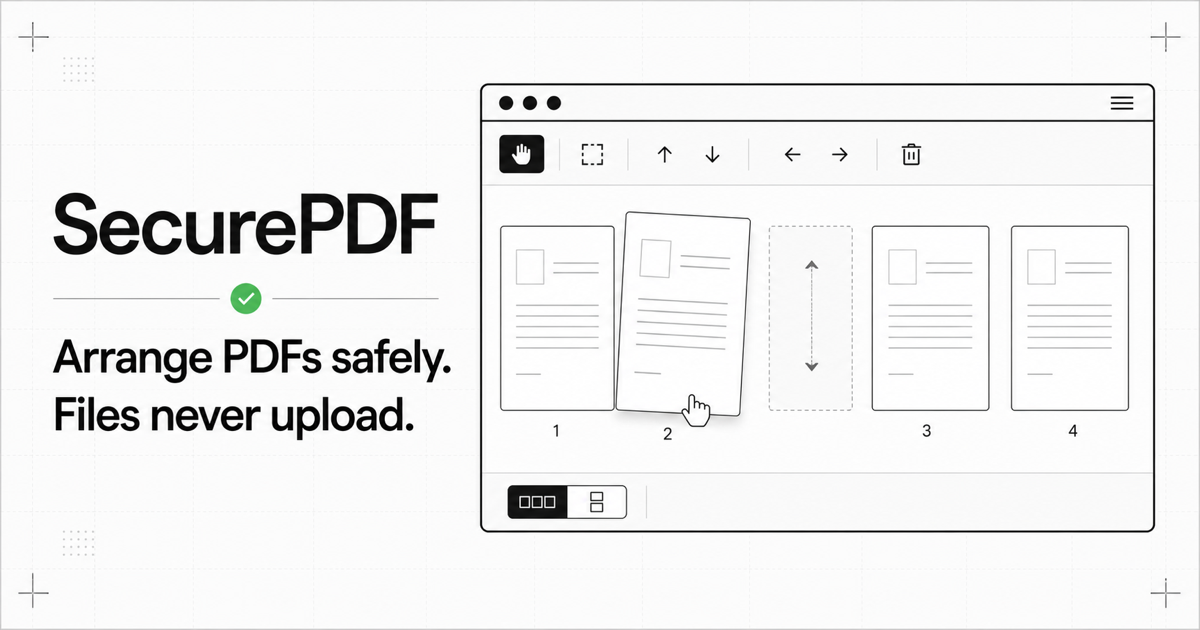
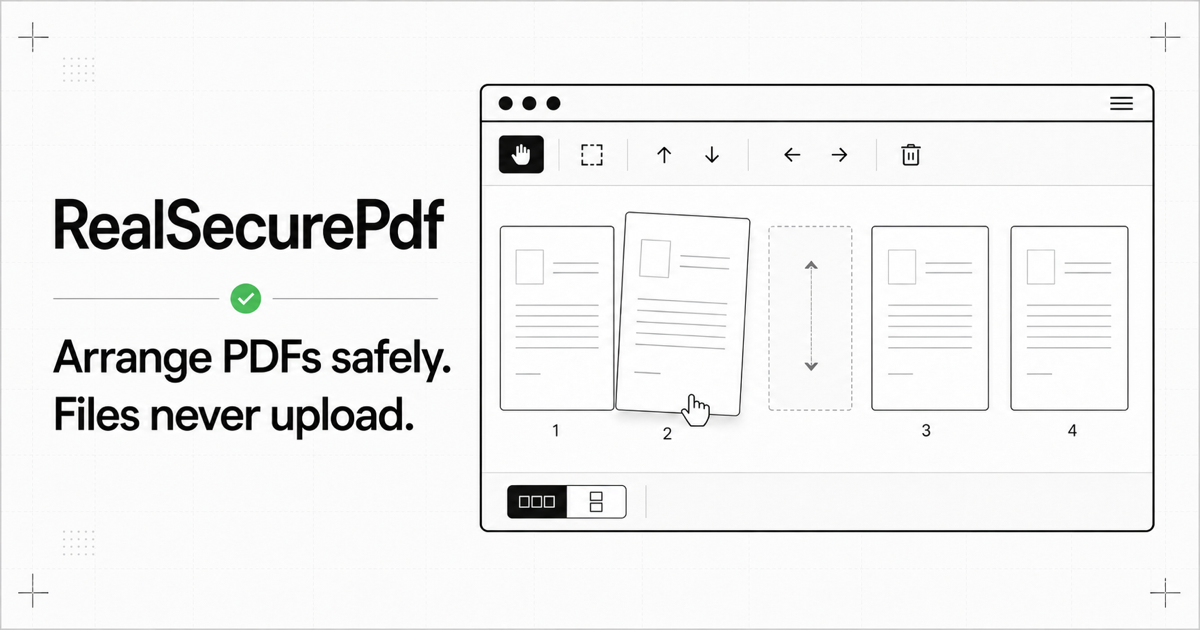
Rebrand application as RealSecurePdf

diff --git a/app/features/seo/services/faqContent.ts b/app/features/seo/services/faqContent.ts
@@ -3,16 +3,16 @@ export interface FaqEntry {
   readonly answer: string;
 }
 
-export const SECUREPDF_FAQ_ENTRIES: readonly FaqEntry[] = [
+export const REAL_SECURE_PDF_FAQ_ENTRIES: readonly FaqEntry[] = [
   {
-    question: "Are my PDF files uploaded to SecurePDF?",
+    question: "Are my PDF files uploaded to RealSecurePdf?",
     answer:
-      "No. Supported PDF files are read and processed inside your browser tab. SecurePDF does not send PDF bytes, filenames, thumbnails, page counts, or merged output to an application server. The contact form is separate and can access only the name, email address, and message that you deliberately type into it. As with any sensitive document workflow, use a trusted device, keep your browser updated, and avoid installing extensions that can read every page you visit.",
+      "No. Supported PDF files are read and processed inside your browser tab. RealSecurePdf does not send PDF bytes, filenames, thumbnails, page counts, or merged output to an application server. The contact form is separate and can access only the name, email address, and message that you deliberately type into it. As with any sensitive document workflow, use a trusted device, keep your browser updated, and avoid installing extensions that can read every page you visit.",
   },
   {
-    question: "Is SecurePDF free, and do I need an account?",
+    question: "Is RealSecurePdf free, and do I need an account?",
     answer:
-      "SecurePDF is currently free to use and does not require registration, a login, or a subscription. The complete PDF arranging and merging workflow is available without payment. Optional support links may be added so people can contribute voluntarily, but a contribution does not unlock features, increase limits, or change how documents are processed. Because there is no account, SecurePDF also does not create a cloud document history for you.",
+      "RealSecurePdf is currently free to use and does not require registration, a login, or a subscription. The complete PDF arranging and merging workflow is available without payment. Optional support links may be added so people can contribute voluntarily, but a contribution does not unlock features, increase limits, or change how documents are processed. Because there is no account, RealSecurePdf also does not create a cloud document history for you.",
   },
   {
     question: "Can I move pages between different PDF files?",
@@ -27,22 +27,22 @@ export const SECUREPDF_FAQ_ENTRIES: readonly FaqEntry[] = [
   {
     question: "Does merging modify or overwrite my original PDFs?",
     answer:
-      "No. SecurePDF treats the imported source bytes as read-only and builds a new output file in browser memory. Renaming a document card, deleting a page from the workspace, changing the document order, or clearing the workspace does not edit the original files on your device. The browser downloads a separate merged PDF only after verification succeeds. Keep your original files as the authoritative copies, especially for archival, legal, financial, or regulated workflows.",
+      "No. RealSecurePdf treats the imported source bytes as read-only and builds a new output file in browser memory. Renaming a document card, deleting a page from the workspace, changing the document order, or clearing the workspace does not edit the original files on your device. The browser downloads a separate merged PDF only after verification succeeds. Keep your original files as the authoritative copies, especially for archival, legal, financial, or regulated workflows.",
   },
   {
-    question: "How does SecurePDF verify the merged PDF before download?",
+    question: "How does RealSecurePdf verify the merged PDF before download?",
     answer:
-      "SecurePDF first generates a new PDF from the page order visible in the workspace. It then reopens that output independently with PDF-lib and PDF.js. The checks compare the expected page count, inspect every page operator stream, verify page dimensions, and confirm that pages can be rendered. A structural or rendering failure stops the download instead of offering a questionable file. Successful downloads include a short SHA-256 fingerprint in the filename for easier identification.",
+      "RealSecurePdf first generates a new PDF from the page order visible in the workspace. It then reopens that output independently with PDF-lib and PDF.js. The checks compare the expected page count, inspect every page operator stream, verify page dimensions, and confirm that pages can be rendered. A structural or rendering failure stops the download instead of offering a questionable file. Successful downloads include a short SHA-256 fingerprint in the filename for easier identification.",
   },
   {
     question: "Why are interactive forms and signed PDFs rejected?",
     answer:
-      "Interactive form fields, XFA forms, and digital signatures depend on document-level structures that are not safely preserved when individual pages are copied into a new PDF. Values can become detached from their fields, scripted behavior can stop working, and any existing digital signature normally becomes invalid after modification. SecurePDF rejects those files rather than silently changing their meaning. If appropriate for your workflow, print or export a static, unsigned copy and import that copy instead.",
+      "Interactive form fields, XFA forms, and digital signatures depend on document-level structures that are not safely preserved when individual pages are copied into a new PDF. Values can become detached from their fields, scripted behavior can stop working, and any existing digital signature normally becomes invalid after modification. RealSecurePdf rejects those files rather than silently changing their meaning. If appropriate for your workflow, print or export a static, unsigned copy and import that copy instead.",
   },
   {
     question: "Why might an encrypted or active-content PDF be rejected?",
     answer:
-      "Password-protected, encrypted, malformed, or unsupported PDFs may not be readable consistently in a browser-only workflow. SecurePDF also rejects files containing JavaScript, launch actions, embedded files, or similar active content because those features increase risk and are unnecessary for page merging. Rejection happens before the file changes the current workspace. If you are authorized to use the document, create a clean static PDF through a trusted desktop application and try that exported copy.",
+      "Password-protected, encrypted, malformed, or unsupported PDFs may not be readable consistently in a browser-only workflow. RealSecurePdf also rejects files containing JavaScript, launch actions, embedded files, or similar active content because those features increase risk and are unnecessary for page merging. Rejection happens before the file changes the current workspace. If you are authorized to use the document, create a clean static PDF through a trusted desktop application and try that exported copy.",
   },
   {
     question: "What PDF size and page limits apply?",
@@ -50,23 +50,23 @@ export const SECUREPDF_FAQ_ENTRIES: readonly FaqEntry[] = [
       "A single PDF can be up to 100 MB. The combined in-memory workspace is limited to 150 MB and 100 total pages. These boundaries reduce the chance that a browser tab becomes unresponsive, particularly on phones and lower-memory computers. Actual performance still depends on page complexity, embedded fonts, images, and available device memory. For a larger job, split it into smaller verified merges, download those results, and combine them in a final pass if necessary.",
   },
   {
-    question: "Can I use SecurePDF on a phone or tablet?",
+    question: "Can I use RealSecurePdf on a phone or tablet?",
     answer:
       "Yes. The workspace is responsive, the main actions remain available on narrow screens, and the drag system supports touch input. Row view stacks document groups vertically on mobile so another PDF can be added below the current documents. Column view intentionally scrolls sideways because each column needs usable page width. For long or image-heavy documents, a desktop computer may still feel faster because it usually has more memory and a larger area for precise page arranging.",
   },
   {
-    question: "Why does SecurePDF have its own page zoom control?",
+    question: "Why does RealSecurePdf have its own page zoom control?",
     answer:
-      "The page zoom control enlarges or reduces only PDF thumbnails, from 75% to 200%, while leaving the application header and controls at a stable size. This is different from browser zoom, which scales the whole interface. SecurePDF renders a high-resolution, lossless preview so page text remains clearer while inspecting order and orientation. The thumbnail is still a preview rather than a full PDF editor, so use the downloaded file or a dedicated reader for final print-level inspection.",
+      "The page zoom control enlarges or reduces only PDF thumbnails, from 75% to 200%, while leaving the application header and controls at a stable size. This is different from browser zoom, which scales the whole interface. RealSecurePdf renders a high-resolution, lossless preview so page text remains clearer while inspecting order and orientation. The thumbnail is still a preview rather than a full PDF editor, so use the downloaded file or a dedicated reader for final print-level inspection.",
   },
   {
     question: "What happens when I clear the workspace or close the tab?",
     answer:
-      "Choosing Clear revokes generated thumbnail URLs, removes the current documents, and empties the undo and redo history so PDF bytes are released from the active workspace. Closing or refreshing the tab also ends the in-memory session because documents are not saved to a SecurePDF account or server. Download any verified result you want to keep before leaving. Theme and layout preferences may remain in local storage, but they do not contain PDF content or filenames.",
+      "Choosing Clear revokes generated thumbnail URLs, removes the current documents, and empties the undo and redo history so PDF bytes are released from the active workspace. Closing or refreshing the tab also ends the in-memory session because documents are not saved to a RealSecurePdf account or server. Download any verified result you want to keep before leaving. Theme and layout preferences may remain in local storage, but they do not contain PDF content or filenames.",
   },
   {
-    question: "Does SecurePDF track document activity or use analytics?",
+    question: "Does RealSecurePdf track document activity or use analytics?",
     answer:
-      "SecurePDF does not send document contents, filenames, thumbnails, page counts, or workspace actions to analytics. Small anonymous feature counters and a campaign source may be stored only in your browser's local storage to support local product behavior; the application does not transmit those values. This design keeps document processing separate from marketing and contact functions. The privacy page explains the current boundaries and should be reviewed again if the product later introduces optional paid services.",
+      "RealSecurePdf does not send document contents, filenames, thumbnails, page counts, or workspace actions to analytics. Small anonymous feature counters and a campaign source may be stored only in your browser's local storage to support local product behavior; the application does not transmit those values. This design keeps document processing separate from marketing and contact functions. The privacy page explains the current boundaries and should be reviewed again if the product later introduces optional paid services.",
   },
 ] as const;

diff --git a/app/features/seo/services/siteMetadata.ts b/app/features/seo/services/siteMetadata.ts
@@ -1,7 +1,7 @@
 import { headers } from "next/headers";
-import { SECUREPDF_FAQ_ENTRIES } from "./faqContent";
+import { REAL_SECURE_PDF_FAQ_ENTRIES } from "./faqContent";
 
-export const SITE_NAME = "SecurePDF";
+export const SITE_NAME = "RealSecurePdf";
 export const SITE_DESCRIPTION =
   "Merge and reorder PDF pages free in your browser. Arrange pages in rows or columns, verify the result, and download without uploading your files.";
 
@@ -17,7 +17,7 @@ const APPLICATION_FEATURES = [
 
 const BASE_METADATA = {
   title: {
-    default: "SecurePDF — Free Private PDF Merger & Page Organizer",
+    default: "RealSecurePdf — Free Private PDF Merger & Page Organizer",
     template: `%s | ${SITE_NAME}`,
   },
   description: SITE_DESCRIPTION,
@@ -88,20 +88,20 @@ export function buildSiteMetadata(siteOrigin: string): object {
       locale: "en_US",
       siteName: SITE_NAME,
       url: "/",
-      title: "SecurePDF — Free Private PDF Merger",
+      title: "RealSecurePdf — Free Private PDF Merger",
       description: SITE_DESCRIPTION,
       images: [{
         url: "/og.png",
         width: 1200,
         height: 630,
-        alt: "SecurePDF private browser PDF merger",
+        alt: "RealSecurePdf private browser PDF merger",
       }],
     },
     twitter: {
       card: "summary_large_image",
-      title: "SecurePDF — Free Private PDF Merger",
+      title: "RealSecurePdf — Free Private PDF Merger",
       description: SITE_DESCRIPTION,
-      images: [{ url: "/og.png", alt: "SecurePDF private PDF merger" }],
+      images: [{ url: "/og.png", alt: "RealSecurePdf private PDF merger" }],
     },
   };
 }
@@ -109,7 +109,7 @@ export function buildSiteMetadata(siteOrigin: string): object {
 function buildFaqSchema(): object {
   return {
     "@type": "FAQPage",
-    mainEntity: SECUREPDF_FAQ_ENTRIES.map((entry) => ({
+    mainEntity: REAL_SECURE_PDF_FAQ_ENTRIES.map((entry) => ({
       "@type": "Question",
       name: entry.question,
       acceptedAnswer: {
@@ -136,7 +136,7 @@ export function buildApplicationSchema(siteOrigin: string): object {
         "@type": "WebApplication",
         "@id": `${siteOrigin}/#application`,
         name: SITE_NAME,
-        alternateName: "Secure PDF",
+        alternateName: "Real Secure PDF",
         url: siteOrigin,
         description: SITE_DESCRIPTION,
         applicationCategory: "UtilitiesApplication",

diff --git a/app/features/seo/components/SeoContent.tsx b/app/features/seo/components/SeoContent.tsx
@@ -1,9 +1,9 @@
-import { SECUREPDF_FAQ_ENTRIES } from "../services/faqContent";
+import { REAL_SECURE_PDF_FAQ_ENTRIES } from "../services/faqContent";
 
 const PRODUCT_FEATURES = [
   {
     heading: "Merge PDFs without uploading",
-    body: "PDF bytes, filenames, thumbnails, and the merged file remain in this browser tab. SecurePDF has no document-upload endpoint or document storage.",
+    body: "PDF bytes, filenames, thumbnails, and the merged file remain in this browser tab. RealSecurePdf has no document-upload endpoint or document storage.",
   },
   {
     heading: "Reorder every PDF page",
@@ -11,7 +11,7 @@ const PRODUCT_FEATURES = [
   },
   {
     heading: "Verify before downloading",
-    body: "SecurePDF reopens the generated file and checks its structure, page count, dimensions, and renderability before enabling the download.",
+    body: "RealSecurePdf reopens the generated file and checks its structure, page count, dimensions, and renderability before enabling the download.",
   },
 ] as const;
 
@@ -25,7 +25,7 @@ export function SeoContent(): React.JSX.Element {
             Merge and reorder PDF pages without sending files to a server
           </h2>
           <p>
-            SecurePDF is a private online PDF organizer for combining documents,
+            RealSecurePdf is a private online PDF organizer for combining documents,
             moving pages, and checking the finished file before download.
           </p>
         </div>
@@ -50,7 +50,7 @@ export function SeoContent(): React.JSX.Element {
 
         <div className="seo-faq">
           <h2>Frequently asked questions</h2>
-          {SECUREPDF_FAQ_ENTRIES.map((item) => (
+          {REAL_SECURE_PDF_FAQ_ENTRIES.map((item) => (
             <details key={item.question}>
               <summary>
                 <span>{item.question}</span>

diff --git a/app/privacy/page.tsx b/app/privacy/page.tsx
@@ -3,7 +3,7 @@ import { LegalPage } from "../features/legal/components/LegalPage";
 export const metadata = {
   title: "Privacy Policy",
   description:
-    "How SecurePDF processes PDF files locally in browser memory and protects document contents, filenames, and workspace activity.",
+    "How RealSecurePdf processes PDF files locally in browser memory and protects document contents, filenames, and workspace activity.",
   alternates: { canonical: "/privacy" },
 };
 
@@ -11,14 +11,14 @@ export default function PrivacyPage(): React.JSX.Element {
   return (
     <LegalPage
       title="Privacy policy"
-      summary="SecurePDF is designed so the documents you arrange stay on your device."
+      summary="RealSecurePdf is designed so the documents you arrange stay on your device."
       sections={[
         {
           heading: "PDF processing",
           content: (
             <p>
               PDF bytes, filenames, thumbnails, and merged output are processed
-              in your browser memory. SecurePDF does not upload or store them.
+              in your browser memory. RealSecurePdf does not upload or store them.
             </p>
           ),
         },
@@ -38,7 +38,7 @@ export default function PrivacyPage(): React.JSX.Element {
             <p>
               If you choose to support the project, an external payment
               provider processes the transaction under its own privacy policy.
-              SecurePDF never places payment code inside the PDF workspace.
+              RealSecurePdf never places payment code inside the PDF workspace.
             </p>
           ),
         },

diff --git a/app/terms/page.tsx b/app/terms/page.tsx
@@ -3,7 +3,7 @@ import { LegalPage } from "../features/legal/components/LegalPage";
 export const metadata = {
   title: "Terms of Use",
   description:
-    "SecurePDF terms covering supported PDF files, local browser processing, document ownership, integrity checks, and safe-use boundaries.",
+    "RealSecurePdf terms covering supported PDF files, local browser processing, document ownership, integrity checks, and safe-use boundaries.",
   alternates: { canonical: "/terms" },
 };
 
@@ -11,7 +11,7 @@ export default function TermsPage(): React.JSX.Element {
   return (
     <LegalPage
       title="Terms of use"
-      summary="SecurePDF is a free utility for viewing, arranging, and merging supported PDF files."
+      summary="RealSecurePdf is a free utility for viewing, arranging, and merging supported PDF files."
       sections={[
         {
           heading: "Safe-use boundaries",
@@ -38,7 +38,7 @@ export default function TermsPage(): React.JSX.Element {
           heading: "Verification",
           content: (
             <p>
-              SecurePDF validates generated structure, page count, render
+              RealSecurePdf validates generated structure, page count, render
               operations, and dimensions before download. Keep original files
               for archival or regulated workflows.
             </p>

diff --git a/app/features/workspace/hooks/useSecureWorkspace.ts b/app/features/workspace/hooks/useSecureWorkspace.ts
@@ -42,9 +42,18 @@ export interface WorkspaceNotice {
   readonly message: string;
 }
 
-const LAYOUT_KEY = "securepdf:layout";
-const ZOOM_KEY = "securepdf:page-zoom";
+const LAYOUT_KEY = "realsecurepdf:layout";
+const ZOOM_KEY = "realsecurepdf:page-zoom";
 const HISTORY_LIMIT = 30;
+const IMPORT_RETRY_GUIDANCE = "Please try again.";
+
+function createImportErrorMessage(error: unknown): string {
+  const reason =
+    error instanceof PdfSecurityError
+      ? error.message
+      : "This PDF could not be safely opened and was rejected.";
+  return `${reason} ${IMPORT_RETRY_GUIDANCE}`;
+}
 
 function workspaceByteCount(documents: PdfDocumentItem[]): number {
   const sources = new Map<string, number>();
@@ -156,11 +165,7 @@ export function useSecureWorkspace() {
           URL.revokeObjectURL(url);
           thumbnailUrls.current.delete(url);
         });
-        const message =
-          error instanceof PdfSecurityError
-            ? error.message
-            : "This PDF could not be safely opened and was rejected.";
-        setNotice({ tone: "error", message });
+        setNotice({ tone: "error", message: createImportErrorMessage(error) });
       } finally {
         setBusy(false);
       }

diff --git a/app/features/export/services/pdfExportService.ts b/app/features/export/services/pdfExportService.ts
@@ -88,7 +88,7 @@ async function fingerprint(bytes: Uint8Array): Promise<string> {
 export async function createVerifiedPdf(
   documents: PdfDocumentItem[],
   report: ExportProgress,
-  documentTitle = "SecurePDF verified merge",
+  documentTitle = "RealSecurePdf verified merge",
 ): Promise<VerifiedExport> {
   const expectedPages = documents.flatMap((document) => document.pages);
   if (expectedPages.length === 0) throw new Error("Add at least one PDF first.");
@@ -98,7 +98,7 @@ export async function createVerifiedPdf(
   const sources = await loadSources(documents);
   for (const page of expectedPages) await appendPage(output, sources, page);
   output.setTitle(documentTitle);
-  output.setProducer("SecurePDF");
+  output.setProducer("RealSecurePdf");
   const bytes = await output.save({
     addDefaultPage: false,
     useObjectStreams: true,

diff --git a/app/features/contact/services/contactService.ts b/app/features/contact/services/contactService.ts
@@ -26,13 +26,13 @@ export async function submitContactMessage(
     },
     body: JSON.stringify({
       access_key: accessKey,
-      subject: `SecurePDF contact from ${fields.name.trim()}`,
-      from_name: "SecurePDF contact",
+      subject: `RealSecurePdf contact from ${fields.name.trim()}`,
+      from_name: "RealSecurePdf contact",
       name: fields.name.trim(),
       email: fields.email.trim(),
       replyto: fields.email.trim(),
       message: fields.message.trim(),
-      source: "securepdf-contact",
+      source: "realsecurepdf-contact",
       botcheck: "",
     }),
   });

diff --git a/app/styles/seo.css b/app/styles/seo.css
@@ -96,7 +96,7 @@
   margin: 24px 0 0;
   padding: 0;
   list-style: none;
-  counter-reset: securepdf-step;
+  counter-reset: realsecurepdf-step;
 }
 
 .seo-steps li {
@@ -106,7 +106,7 @@
   color: var(--color-body);
   font-size: 12px;
   line-height: 1.6;
-  counter-increment: securepdf-step;
+  counter-increment: realsecurepdf-step;
 }
 
 .seo-steps li::before {
@@ -115,7 +115,7 @@
   color: var(--color-mute);
   font-family: var(--font-mono);
   font-size: 10px;
-  content: "0" counter(securepdf-step);
+  content: "0" counter(realsecurepdf-step);
 }
 
 .seo-steps strong {

diff --git a/app/styles/toolbar.css b/app/styles/toolbar.css
@@ -14,8 +14,26 @@
 }
 
 .brand {
+  display: flex;
+  align-items: center;
+  gap: 6px;
   font-size: 14px;
   letter-spacing: -0.4px;
+  white-space: nowrap;
+}
+
+.brand-badge {
+  padding: 2px 5px;
+  border: 1px solid color-mix(in srgb, var(--color-success) 45%, transparent);
+  border-radius: 999px;
+  background: color-mix(in srgb, var(--color-success) 10%, transparent);
+  color: var(--color-success);
+  font-family: var(--font-mono);
+  font-size: 9px;
+  font-weight: 700;
+  letter-spacing: 0;
+  line-height: 1.2;
+  text-transform: uppercase;
 }
 
 .toolbar-center,

diff --git a/app/features/support/components/SupportDialog.tsx b/app/features/support/components/SupportDialog.tsx
@@ -22,7 +22,7 @@ export function SupportDialog({
       >
         <button className="dialog-close" aria-label="Close" onClick={onClose}>×</button>
         <div className="dialog-icon" aria-hidden="true">☕</div>
-        <h2 id="support-title">Keep SecurePDF free.</h2>
+        <h2 id="support-title">Keep RealSecurePdf free.</h2>
         <p>
           If this tool saved you time, you can make an optional contribution.
         </p>

diff --git a/app/features/workspace/components/RealSecurePdfApp.tsx b/app/features/workspace/components/RealSecurePdfApp.tsx
@@ -25,7 +25,7 @@ import { EmptyWorkspace } from "./EmptyWorkspace";
 import { PrivacyStrip } from "./PrivacyStrip";
 import { WorkspaceToolbar } from "./WorkspaceToolbar";
 
-export function SecurePdfApp(): React.JSX.Element {
+export function RealSecurePdfApp(): React.JSX.Element {
   const workspace = useSecureWorkspace();
   const appearance = useTheme();
   const inputRef = useRef<HTMLInputElement>(null);
